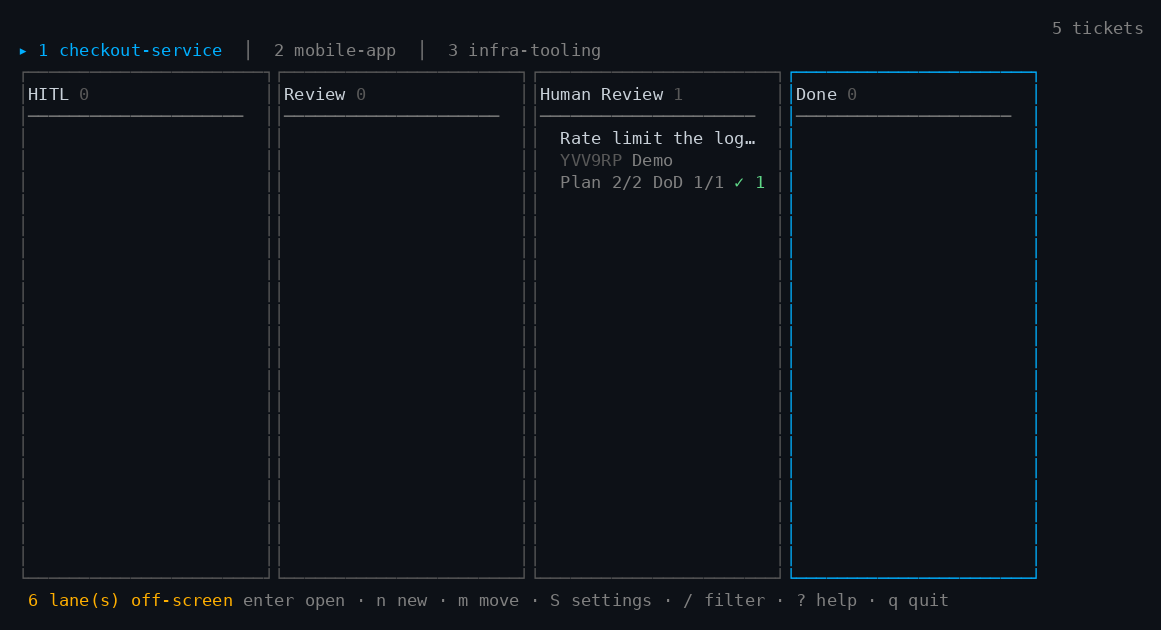
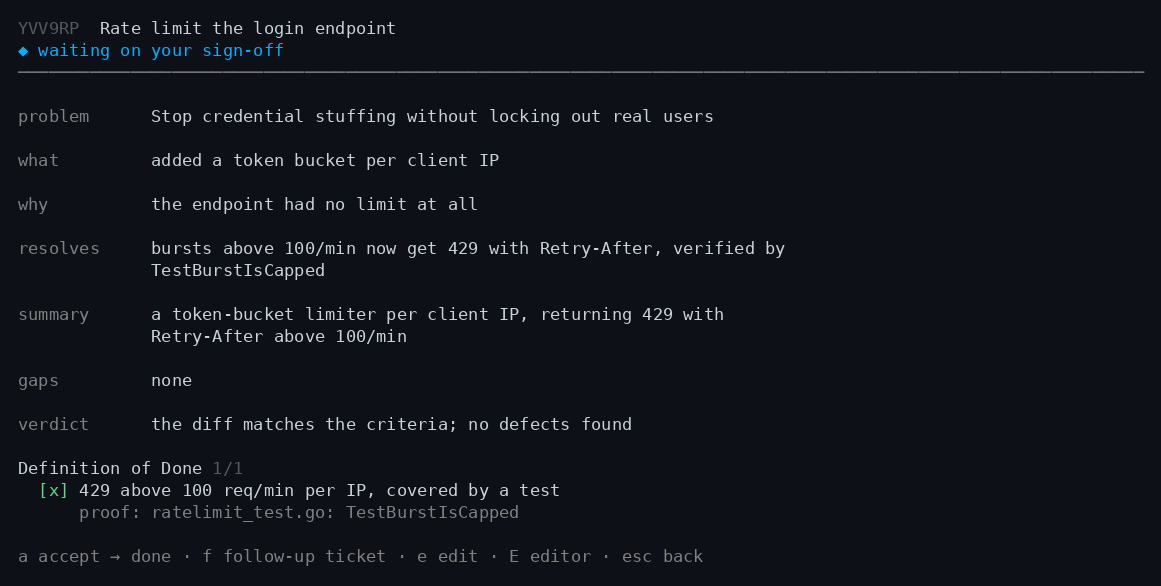
fix: shotgen finds the sign-off lane instead of counting to it, and the screenshot shows the actual screen

diff --git a/scripts/shotgen/main.go b/scripts/shotgen/main.go
@@ -14,6 +14,7 @@ import (
 	"fmt"
 	"os"
 	"strconv"
+	"strings"
 
 	tea "charm.land/bubbletea/v2"
 
@@ -57,11 +58,17 @@ func main() {
 	case "pipeline":
 		key('v')
 	case "signoff":
-		// Walk to the sign-off lane and open the ticket waiting there.
-		for i := 0; i < 8; i++ {
+		// Walk right until opening the ticket lands on the sign-off screen,
+		// rather than counting lanes: a hardcoded count breaks the moment a
+		// lane is added to the default board.
+		for i := 0; i < 16; i++ {
+			m.Update(tea.KeyPressMsg{Code: tea.KeyEnter})
+			if strings.Contains(m.View().Content, "sign-off") {
+				break
+			}
+			m.Update(tea.KeyPressMsg{Code: tea.KeyEscape})
 			key('l')
 		}
-		m.Update(tea.KeyPressMsg{Code: tea.KeyEnter})
 	case "edit":
 		m.Update(tea.KeyPressMsg{Code: tea.KeyEnter})
 		key('e')
